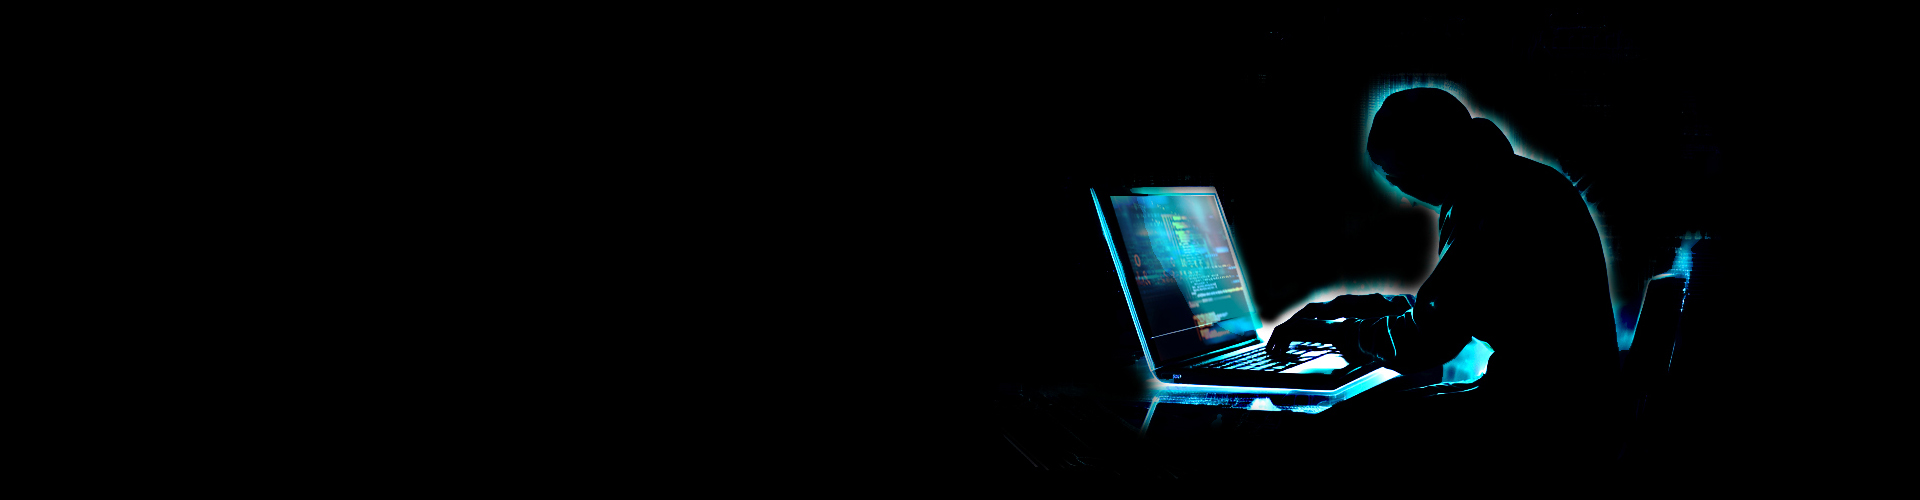
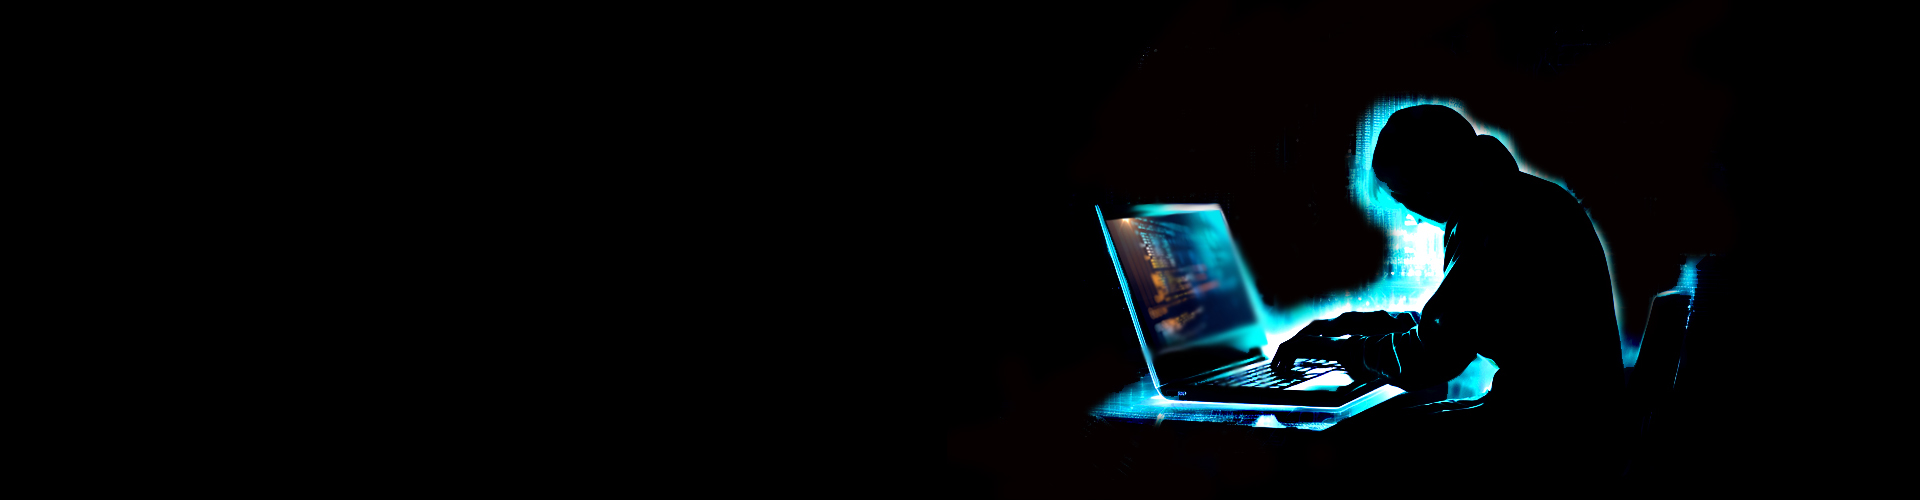
update

Changed region(s): [[0.5625, 0.15, 0.8125, 0.87], [0.8125, 0.45, 0.9062, 0.75], [0.8125, 0.36, 0.8438, 0.51]]

diff --git a/style.css b/style.css
@@ -14,7 +14,8 @@ body {
 
 /* Style topo */
 header {
-    padding: 20px 2%;
+    margin: 0 auto;
+    padding: 10px 2%;
     align-items: center;
 
 }
@@ -22,6 +23,7 @@ header {
 .interface {
     max-width: 100em;
     margin: 0 auto;
+
 }
 
 header>.interface {
@@ -55,33 +57,31 @@ header nav ul li {
 
 /*Section_1 */
 .text_intro {
-    max-width: 100%;
-    margin: 4em 4em;
+    margin: 2em auto;
+    max-width: 100em;
     padding: 10px;
     display: flex;
     align-items: center;
     line-height: 3em;
     letter-spacing: 2px;
-
-
-
-
 }
 
 .intro {
-    width: 100%;
-
+    margin-top: 5em;
+    margin-left: 12em;
 }
 
 .intro h1 {
-    font-weight: 300;
+    font-weight: 400;
     font-size: 4em;
     line-height: 2em;
 }
 
 .intro h2 .name {
     position: relative;
-    font-size: 1em;
+    font-size: 1.5em;
+    font-weight: 400;
+    letter-spacing: 0.2em;
     color:#05feef;
     animation: neon 1s ease-in-out infinite alternate;
 }
@@ -95,36 +95,33 @@ header nav ul li {
 }
 
 
-
-.intro h2 {
-    font-weight: 500;
+.intro span {
+    color: #05feef;
     font-size: 2em;
 }
 
-.intro span {
-    color: #05feef;
-    font-size: 1em;
+
+.intro .p1 {
+    font-weight: 400;
+    font-size: 2em;
+  
+
 }
 
-.intro h3 {
-    font-size: 1em;
-}
 
-.intro p {
-    font-size: 1em;
+.intro .p2 {
     font-weight: 200;
+    line-height: 2em;
 
 }
 
 .img1 {
-    width: 100%;
-    display: flex;
-    padding: 10px;
 
-
-background: red;
+    position: absolute;
+    z-index: -1;
+    margin-left: 5em;
 }
 
 .img1 img {
-    max-width: 100%;
+    width: 90em;
 }

diff --git a/index.html b/index.html
@@ -19,7 +19,7 @@
         <div class="interface">
             <div class="logo">
                 <a href="#">
-                    <img src="imagens/LOGO ASM_dark5.jpg" alt="logotipo_asm" width="150em" >
+                    <img src="imagens/LOGO ASM_letrabranca.png" alt="logotipo_asm" width="150em" >
                 </a>
             </div>
 
@@ -38,12 +38,12 @@
         <div class="intro">
             <h1><span>.</span>Hello!</h1>
             <h2>eu sou <span class="name">Alessandro Mendonça</span></h2>
-            <h3>Este é o meu portifólio, seja bem vindo</h3>
-            <p>Aqui vc encontrará os projetos desenvolvidos por mim.</p>
+            <p class="p1">Seja bem vindo ao meu portifólio</p>
+            <p class="p2">Aqui vc encontrará os projetos desenvolvidos por mim.</p>
         </div>
     
         <div class="img1">
-            <img src="imagens/img6.jpg" alt="" width="435em">
+            <img src="imagens/img7.jpg" alt="">
         </div>
     </section>
     
